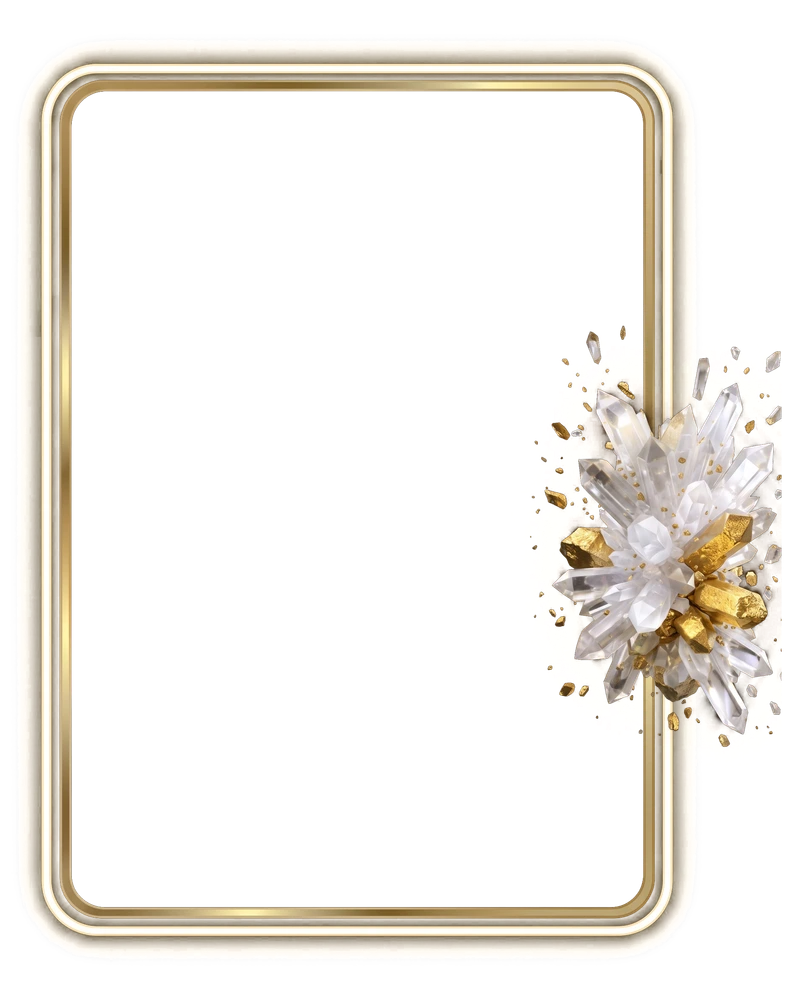
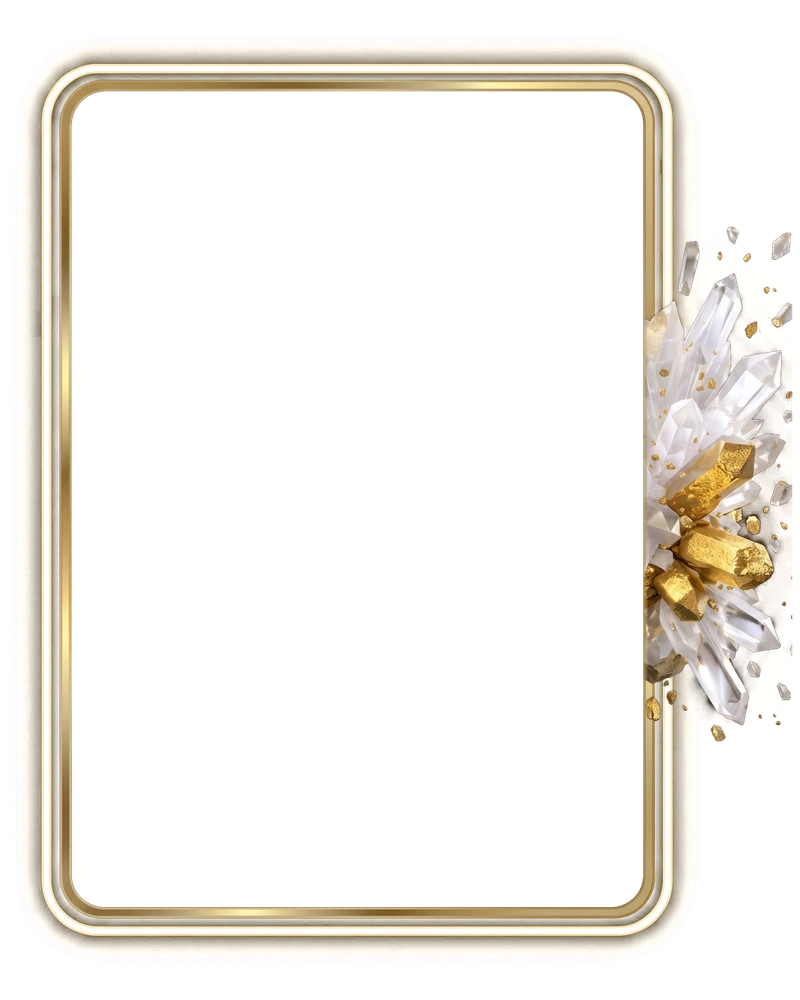
make the Icone crystal render larger and put it behind the player inside the card
Claude-Session: https://claude.ai/code/session_01N8XLJoyFiwvoZXFrULaieo

Changed region(s): [[0.6987, 0.062, 1.0, 0.961], [0.0608, 0.093, 0.1215, 0.93], [0.9722, 0.217, 1.0, 0.279]]

diff --git a/components/cancha-card.tsx b/components/cancha-card.tsx
@@ -219,7 +219,7 @@ const ROUPAS = {
   // Maré (2026-11-05, teste do kit em camadas: fundo e borda feitos no Gemini com o gabarito 5:7, montados por `prototipos/montar-carta.cjs`):
   // tromba-d'água num mar de enchente e moldura de ouro com a "capa" de lâminas nos cantos de baixo. Janela padrão (`ring`, 64,5 px da caixa).
   mare: { background: "premium-mare", overflow: "premium-mare-vaza", artInset: { x: 1.43, y: 1.02, radius: 7.5 }, window: "ring", windowInset: { x: 1.43, y: 1.02 }, windowRadius: 7.5, contentPad: 6.25, artFrame: true, clean: true, trim: null, metal: ["#b8902f", "#b8902f", "#fff1c2"], accent: "#f3d27a", light: "120 230 255", bar: "#031018", muted: "#bfeeff", sparkles: false, neon: "#f3d27a" },
-  icone: { background: "premium-marfim", overflow: "premium-marfim-vaza", overflowWidth: 790 / 714, artInset: { x: 1.43, y: 1.02, radius: 7.5 }, window: "ring", windowInset: { x: 1.43, y: 1.02 }, windowRadius: 7.5, contentPad: 6.25, artFrame: true, clean: true, bareName: true, ink: "#2a2113", trim: null, metal: ["#c9a24e", "#c9a24e", "#fff4d6"], accent: "#c9a24e", light: "255 240 200", bar: "#f4efe4", muted: "#6b5a36", sparkles: false, neon: "#ffcf4d" },
+  icone: { background: "premium-marfim", overflow: "premium-marfim-vaza", overflowWidth: 800 / 714, artInset: { x: 1.43, y: 1.02, radius: 7.5 }, window: "ring", windowInset: { x: 1.43, y: 1.02 }, windowRadius: 7.5, contentPad: 6.25, artFrame: true, clean: true, bareName: true, ink: "#2a2113", trim: null, metal: ["#c9a24e", "#c9a24e", "#fff4d6"], accent: "#c9a24e", light: "255 240 200", bar: "#f4efe4", muted: "#6b5a36", sparkles: false, neon: "#ffcf4d" },
   // Aurora (2026-11-04, GUARDADA: o dono gostou mas pediu para não aplicar ainda; não está em `CARD_SKINS`, então não aparece na Loja.
   // Para usar: entrada em `CARD_SKINS` (sugestão nível 14, 1600 CC), `case` em `skinRoupa` e `SKIN_CLASSES`): aurora boreal renderizada pixel a pixel em código (`prototipos/premium-aurora.cjs`), fio de ouro, respiro preto,
   // tubo de neon verde-água por fora e a Estrela Polar no topo; a luz da aurora vaza sobre a moldura. Concêntrica: windowRadius = raio da carta − o aro.
